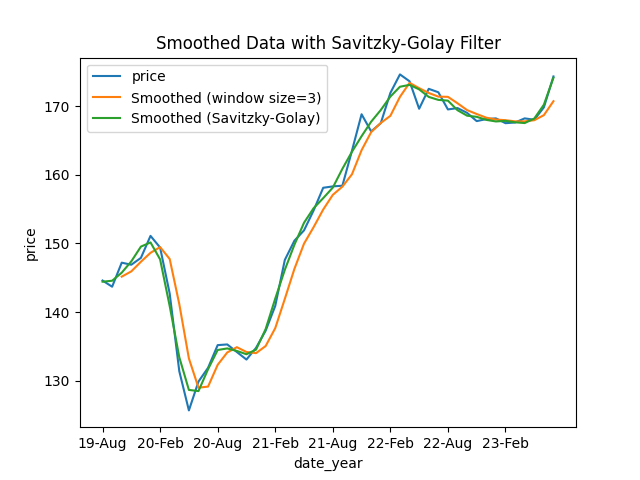
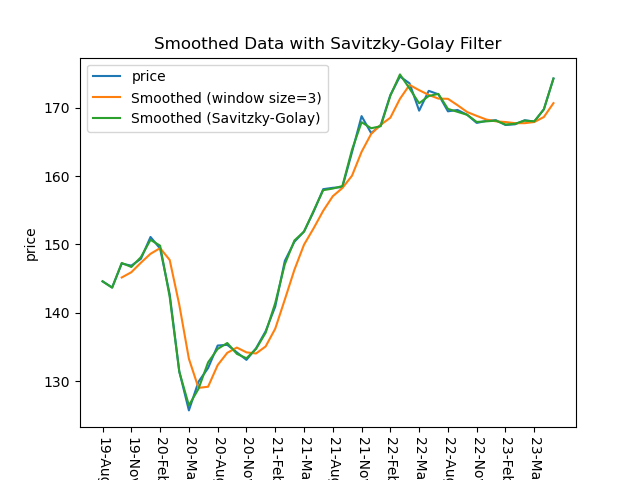
谷と山からリストを作るときに年月が早い順番へ変更。最後の結果出力で年月を使用可能にした。

diff --git a/createPlot.py b/createPlot.py
@@ -2,6 +2,8 @@ import matplotlib.pyplot as plt
 import pandas as pd
 import numpy as np
 from scipy.signal import argrelextrema,find_peaks, savgol_filter
+from datetime import datetime
+from dateutil.relativedelta import relativedelta
 
 def describe_difference(num_before: int, num_after: int) -> str:
     
@@ -41,15 +43,18 @@ def describe_difference2(
 df = pd.read_csv('GasolinePriceTrends-Excel.csv')
 
 # グラフの描画
+
 plt.plot(df['date_year'], df['price'])
+
 plt.xticks(np.arange(0, len(df['date_year']), step=4))
 plt.xlabel('month-year')
 plt.ylabel('price')
 plt.title('Gasoline_price_Trends')
 
-ticks = 10
+ticks = 3
 
 fig, ax = plt.subplots()
+plt.xticks(rotation=270)
 df.plot(ax=ax)
 output_file_path = 'static/output_plot.png'
 fig.savefig(output_file_path)
@@ -59,16 +64,17 @@ fig.savefig(output_file_path)
 window_size = 3 # 移動平均のウィンドウサイズ（調整が必要な場合は変更してください）
 smoothed_data = df['price'].rolling(window=window_size).mean()
 
-
 # グラフの描画
+
 plt.plot(df['date_year'], smoothed_data, label=f'Smoothed (window size={window_size})')
 plt.title('Smoothed Data with Trend Line')
 plt.xlabel('date_year')
 plt.ylabel('price')
 plt.legend()
 
+plt.xticks(rotation=270)
 # X軸のメモリを10個飛ばしで表示
-x_ticks = df['date_year'][::6]
+x_ticks = df['date_year'][::3]
 plt.xticks(x_ticks)
 
 # ピーク（山）と谷のインデックスを取得
@@ -98,18 +104,20 @@ x_values = df['date_year'].values
 y_values = df['price'].values
 
 # データをスムージングするためにSavitzky-Golayフィルタを適用
-window_size = 7  # ウィンドウサイズ（調整が必要な場合は変更してください）
-order = 3  # 多項式の次数（調整が必要な場合は変更してください）
+window_size = 9  # ウィンドウサイズ（調整が必要な場合は変更してください）
+order = 7  # 多項式の次数（調整が必要な場合は変更してください）
 smoothed_data = savgol_filter(y_values, window_size, order)
 
 # グラフの描画
+
 plt.plot(x_values, smoothed_data, label=f'Smoothed (Savitzky-Golay)')
 plt.title('Smoothed Data with Savitzky-Golay Filter')
 plt.xlabel('date_year')
 plt.ylabel('price')
 plt.legend()
 
-x_ticks = df['date_year'][::6]
+plt.xticks(rotation=270)
+x_ticks = df['date_year'][::3]
 plt.xticks(x_ticks)
 
 # Savitzky-Golay法を使用してピークを検出
@@ -140,56 +148,71 @@ x_valleys = x_values[valleys]
 # 新しいリストを作成
 new_list = [(x_values[0], y_values[0])]
 
-# ループを使用して交互に挿入
+
 i, j = 0, 0
-while i < len(peak_heights) and j < len(valley_depths):
-    new_list.append((x_peaks[i],max(peak_heights[i], valley_depths[j])))  # 大きな方を挿入
-    new_list.append((x_valleys[j],min(peak_heights[i], valley_depths[j])))  # 小さい方を挿入
-    i += 1
-    j += 1
+while i < len(peaks) and j < len(valleys):
+    # x 座標を日付に変換
+    peak_date = datetime.strptime(x_peaks[i], '%y-%b')
+    valley_date = datetime.strptime(x_valleys[j], '%y-%b')
+
+    if peak_date < valley_date:
+        new_list.append((x_peaks[i], max(peak_heights[i], valley_depths[j])))
+        i += 1
+    else:
+        new_list.append((x_valleys[j], min(peak_heights[i], valley_depths[j])))
+        j += 1
 
 # 残りの値を挿入
-while i < len(peak_heights):
-    new_list.append((x_peaks[i],peak_heights[i]))
+while i < len(peaks):
+    new_list.append((x_peaks[i], peak_heights[i]))
     i += 1
 
-while j < len(valley_depths):
-    new_list.append((x_valleys[j],valley_depths[j]))
+while j < len(valleys):
+    new_list.append((x_valleys[j], valley_depths[j]))
     j += 1
-    
+
+
 # 結果を表示
 print("新しいリスト:", new_list)
     
-# 上昇と下降の比率を出力
+# 上昇と下降の比率を出力、副詞を使い分けて結果を出力
 for i in range(len(new_list) - 1):
     current_x, current_y = new_list[i]
     next_x, next_y = new_list[i + 1]
 
-    ratio = abs((next_y - current_y) / current_y)
+    # 年月を日付オブジェクトに変換
+    current_date = datetime.strptime(current_x, '%y-%b')
+    next_date = datetime.strptime(next_x, '%y-%b')
+    
+    # 経過月数を計算
+    months_passed = relativedelta(next_date, current_date).months
+    
+    ratio_y = abs((next_y - current_y) / current_y)    
 
     if next_y > current_y:
-        trend = "上昇"
+        trend_y = "上昇"
     elif next_y < current_y:
-        trend = "下降"
+        trend_y = "下降"
     else:
-        trend = "変化なし"
+        trend_y = "変化なし"
 
-    if ratio > 2.0:
-        adverb = "exceedingly"
-    elif ratio > 1.5:
-        adverb = "incredibly"
-    elif ratio > 1.0:
-        adverb = "very"
-    elif ratio > 0.5:
-        adverb = "terribly"
+    if ratio_y > 0.25:
+        adverb = "極めて" 
+    elif ratio_y > 0.1:
+        adverb = "急激に" 
+    elif ratio_y > 0.075:
+        adverb = "非常に" 
+    elif ratio_y > 0.05:
+        adverb = "ひどく" 
+    elif ratio_y > 0.03:
+        adverb = "少し"
+    elif ratio_y > 0.001:
+        adverb = "わずかに"
     else:
-        adverb = "very"
+        adverb = "とても" 
 
-    print(f"現在の値: ({current_x}, {current_y}), 次の値: ({next_x}, {next_y}), 変化: {trend}, 比率: {adverb} {ratio:.2%}")
+    #print(f"{current_x}から{next_x}までに{adverb}{trend_y}した。{ratio_y:.4f}")
+    print(f"{current_x}から{next_x}までにy座標が{next_y - current_y} {trend_y}し、{months_passed}ヶ月経過しました。")
 
 output_file_path = 'static/output_graph_savitzky_golay.png'  # 保存するファイルのパス
 plt.savefig(output_file_path)
-
-
-new_list2 = [(x_values[0], y_values[0])]
-print(new_list2)
